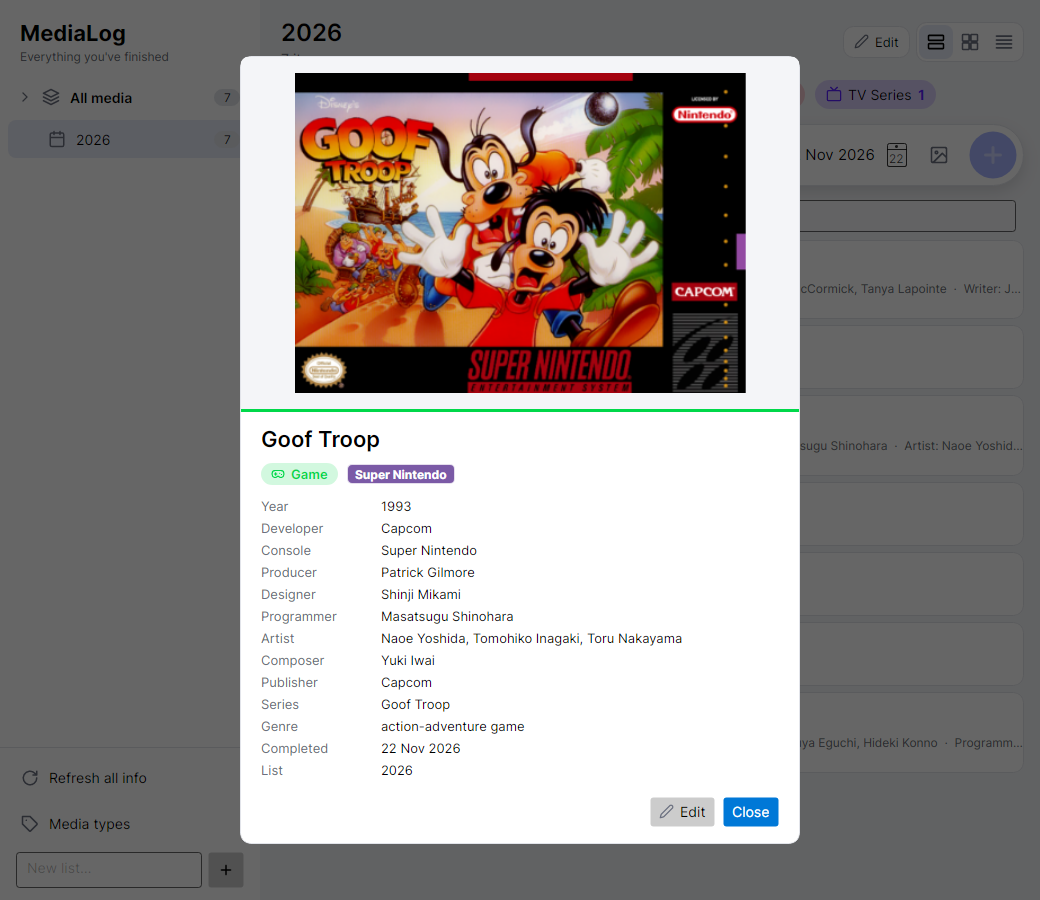
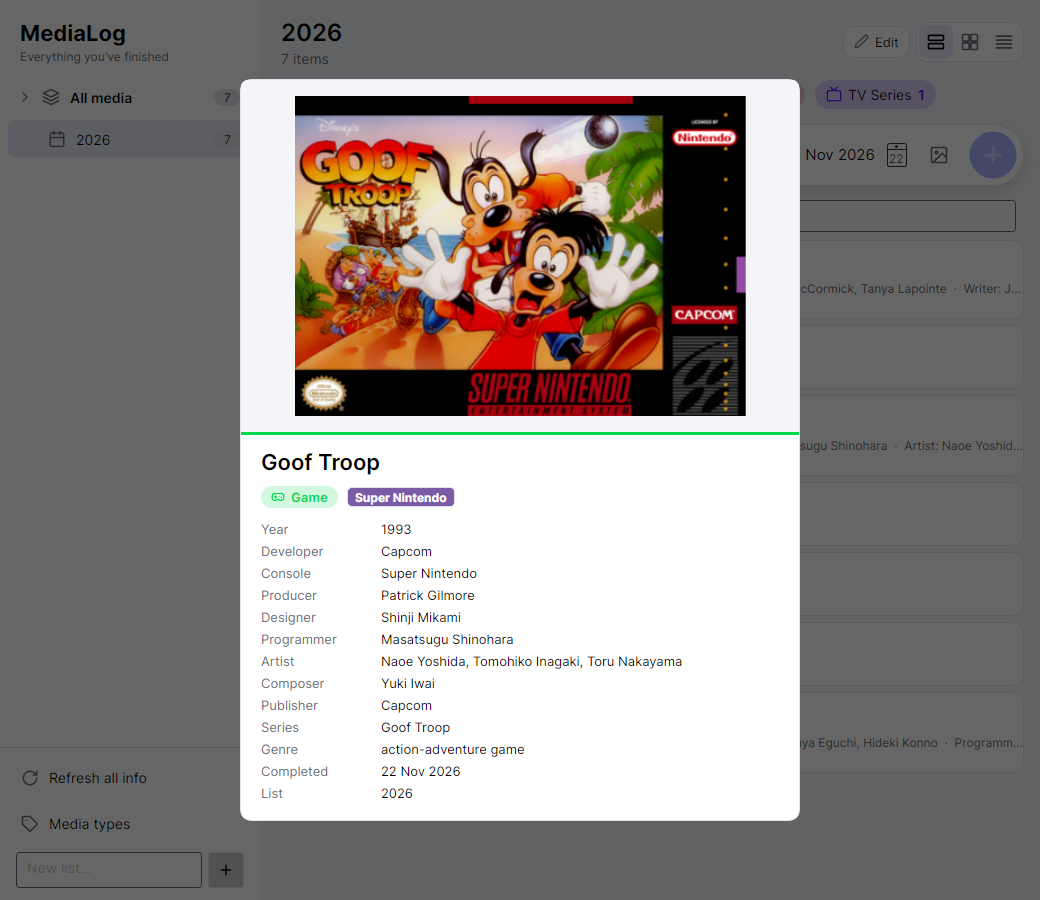
MediaLog: full-height card divider; details card closes on outside tap
- The type-colored divider between thumbnail and title in cards view
  now spans the full height of the card.
- The details card has no buttons any more: tapping / clicking outside
  it closes it.

Claude-Session: https://claude.ai/code/session_01NWBCcXr1uMHCvRDya14kEE

Changed region(s): [[0.2154, 0.0622, 0.7692, 0.9644]]

diff --git a/apps/MediaLog/MediaLog/Views/MainView.axaml.cs b/apps/MediaLog/MediaLog/Views/MainView.axaml.cs
@@ -21,6 +21,12 @@ public partial class MainView : UserControl
         AddHandler(PointerMovedEvent, OnEntryMoved, handledEventsToo: true);
         AddHandler(PointerReleasedEvent, (_, _) => CancelHold(), handledEventsToo: true);
         AddHandler(PointerCaptureLostEvent, (_, _) => CancelHold(), handledEventsToo: true);
+        DetailsBackdrop.PointerPressed += (_, e) =>
+        {
+            if (DataContext is MainViewModel vm)
+                vm.CloseDetailsCommand.Execute(null);
+            e.Handled = true;
+        };
         Nav.SelectionChanged += (_, _) =>
         {
             if (_compact == true && DataContext is MainViewModel vm)

diff --git a/apps/MediaLog/README.md b/apps/MediaLog/README.md
@@ -62,6 +62,7 @@ documentaries, audiobooks…
   ![games](docs/games.png)
 - **Details card** – press and hold any entry (touch, mouse or pen) to see everything fetched for it:
   the whole cover, type and console, year, creator, length, all credits, list and completion date.
+  Tap / click outside the card to close it.
 
   ![details](docs/details.png)
 - **Refresh all info** (sidebar) – looks every entry up online again and fills in what's missing
